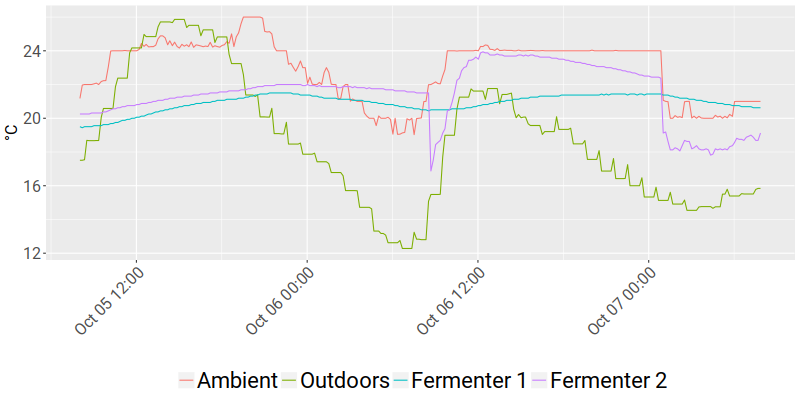
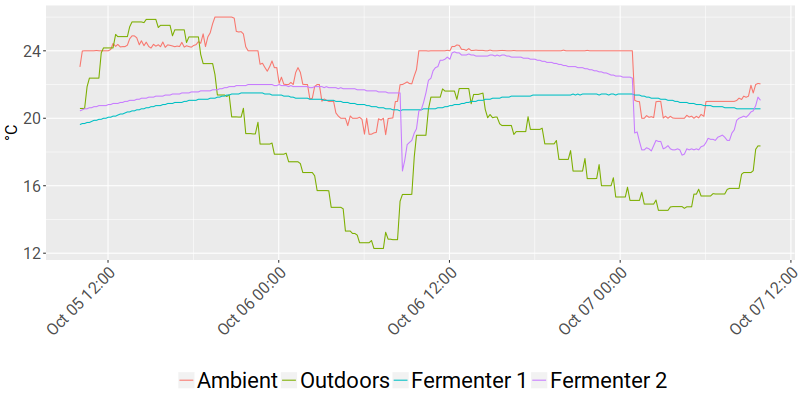
Update live temperature on site

diff --git a/temperature.js b/temperature.js
@@ -1,1 +1,1 @@
-document.write("<h4>Inside Temperature: 21.0°C</h4><h4>Outside Temperature: 15.84°C</h4><h4>Fermenter 1 Temperature: 20.63°C</h4><h4>Fermenter 2 Temperature: 19.13°C</h4><h4>Inside Humidity: 52.02%</h4><h4>Outside Humidity: 86.0%</h4><br>Last update: 2017-10-07 07:51:17");
+document.write("<h4>Inside Temperature: 22.04°C</h4><h4>Outside Temperature: 18.36°C</h4><h4>Fermenter 1 Temperature: 20.56°C</h4><h4>Fermenter 2 Temperature: 21.06°C</h4><h4>Inside Humidity: 57.31%</h4><h4>Outside Humidity: 84.0%</h4><br>Last update: 2017-10-07 09:51:44");
